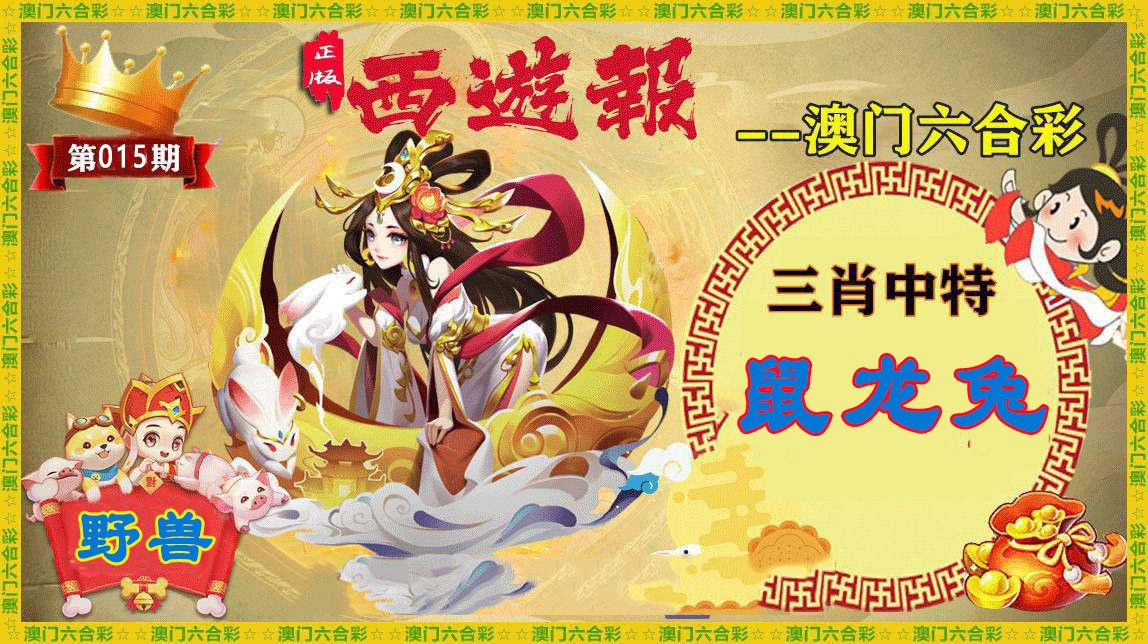
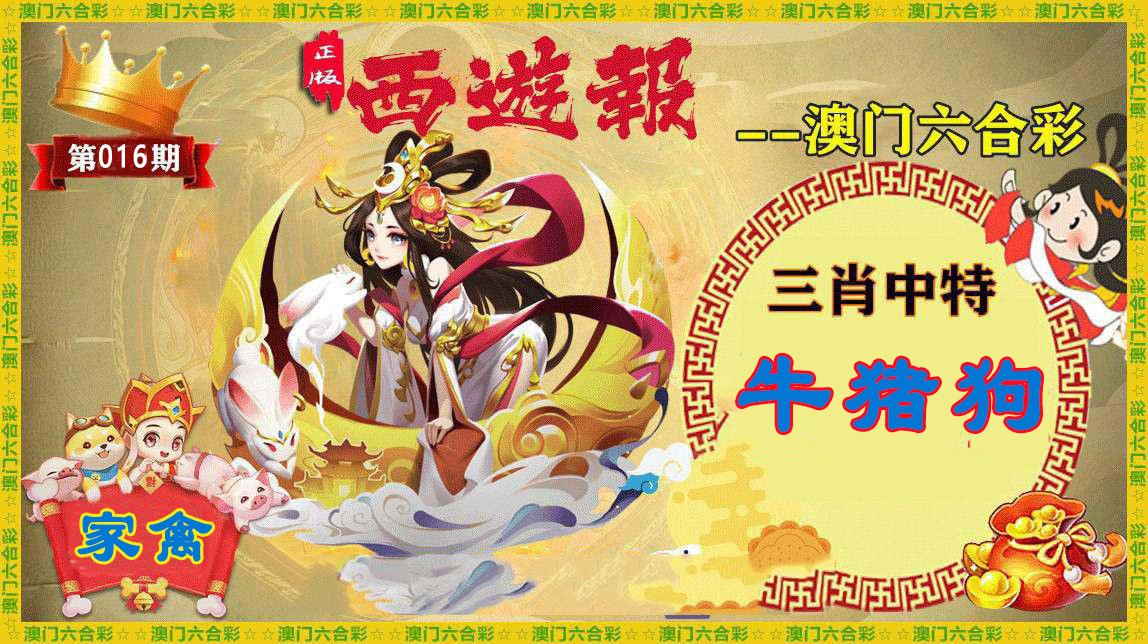
Update:  2024.01.16 13:23:11

Changed region(s): [[0.6402, 0.528, 0.9146, 0.6832], [0.061, 0.7764, 0.2134, 0.9006]]

diff --git a/Script/Src/xjw/杀两肖图.js b/Script/Src/xjw/杀两肖图.js
@@ -35,8 +35,8 @@ document.writeln("	");
 document.writeln("			<tr style=\'box-sizing: border-box;\'>");
 document.writeln("			<td height=\'40\' style=\'box-sizing: border-box;\'>");
 document.writeln("			");
-document.writeln("<a target=\'_blank\' href=\'https://49080.com/#/picture/28585\'><img src=\'https://tk2.zaojiao365.net:4949/col/15/c002.jpg\'  width=\'49%\'></a>");
-document.writeln("<a target=\'_blank\' href=\'https://49080.com/#/picture/209029\'><img src=\'https://tk2.zaojiao365.net:4949/col/15/hj44.jpg\'  width=\'49%\'></a>");
+document.writeln("<a target=\'_blank\' href=\'https://49080.com/#/picture/28585\'><img src=\'https://tk2.zaojiao365.net:4949/col/16/c002.jpg\'  width=\'49%\'></a>");
+document.writeln("<a target=\'_blank\' href=\'https://49080.com/#/picture/209029\'><img src=\'https://tk2.zaojiao365.net:4949/col/16/hj44.jpg\'  width=\'49%\'></a>");
 document.writeln("		</td></tr>");
 document.writeln("		");
 document.writeln("		");
@@ -49,6 +49,28 @@ document.writeln("");
 document.writeln("		");
 
 
+document.writeln("	");
+document.writeln("");
+document.writeln("		");
+document.writeln("													<!--开始-->");
+document.writeln("				<tr style=\'box-sizing: border-box;\'>");
+document.writeln("					<td height=\'40\' style=\'box-sizing: border-box;\'>");
+document.writeln("			<p align=\'center\' style=\'box-sizing: border-box; padding: 0px; margin: 0px;\'>");
+document.writeln("			<font size=\'4\' style=\'margin: 0px; padding: 0px;\'>");
+document.writeln("			016期玄机网禁两肖<font color=\'#FF0000\'>【兔猴】</font>特开<font color=\'#0000FF\'>？00</font>准<br>");
+document.writeln("			016期澳门杀两肖图<font color=\'#FF0000\'>【马鸡】</font>特开<font color=\'#0000FF\'>？00</font>准<br>");
+document.writeln("			016期澳门图库禁肖<font color=\'#FF0000\'>【鸡虎】</font>特开<font color=\'#0000FF\'>？00</font>准</font></font></p></td>");
+document.writeln("		</tr>");
+document.writeln("<!--推广-->");
+document.writeln("				<tr style=\'box-sizing: border-box;\'>");
+document.writeln("					<td height=\'40\' style=\'box-sizing: border-box;\' bgcolor=\'#FFFF00\'>");
+document.writeln("			<p align=\'center\' style=\'box-sizing: border-box; padding: 0px; margin: 0px;\'>");
+document.writeln("			<a target=\'_blank\' href=\'https://j.1999xz.com:1999/\' style=\'text-decoration: none\'><img src=/yyy123.gif style=\'width:20px\' height=\'19\'><span style=font-family:楷体;color:#00f><font style=\'font-size: 15pt\'>点击投注澳门六合彩</font></span><span style=font-family:楷体;font-size:17pt;><font color=\'#FF0000\'>1999.cc</font></span></a></strong>");
+document.writeln("</p></td></tr>");
+document.writeln("<!--结束-->	");
+document.writeln("");
+document.writeln("");
+
 
 document.writeln("	");
 document.writeln("");
@@ -58,9 +80,9 @@ document.writeln("				<tr style=\'box-sizing: border-box;\'>");
 document.writeln("					<td height=\'40\' style=\'box-sizing: border-box;\'>");
 document.writeln("			<p align=\'center\' style=\'box-sizing: border-box; padding: 0px; margin: 0px;\'>");
 document.writeln("			<font size=\'4\' style=\'margin: 0px; padding: 0px;\'>");
-document.writeln("			015期玄机网禁两肖<font color=\'#FF0000\'>【鸡羊】</font>特开<font color=\'#0000FF\'>？00</font>准<br>");
-document.writeln("			015期澳门杀两肖图<font color=\'#FF0000\'>【牛猪】</font>特开<font color=\'#0000FF\'>？00</font>准<br>");
-document.writeln("			015期澳门图库禁肖<font color=\'#FF0000\'>【虎猴】</font>特开<font color=\'#0000FF\'>？00</font>准</font></font></p></td>");
+document.writeln("			015期玄机网禁两肖<font color=\'#FF0000\'>【鸡羊】</font>特开<font color=\'#0000FF\'>牛39</font>准<br>");
+document.writeln("			015期澳门杀两肖图<font color=\'#FF0000\'>【牛猪】</font>特开<font color=\'#0000FF\'>牛39</font>错<br>");
+document.writeln("			015期澳门图库禁肖<font color=\'#FF0000\'>【虎猴】</font>特开<font color=\'#0000FF\'>牛39</font>准</font></font></p></td>");
 document.writeln("		</tr>");
 document.writeln("<!--推广-->");
 document.writeln("				<tr style=\'box-sizing: border-box;\'>");
